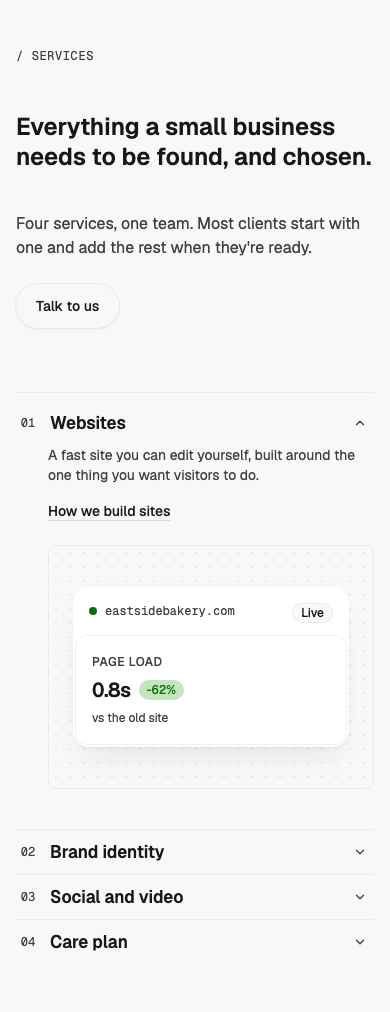
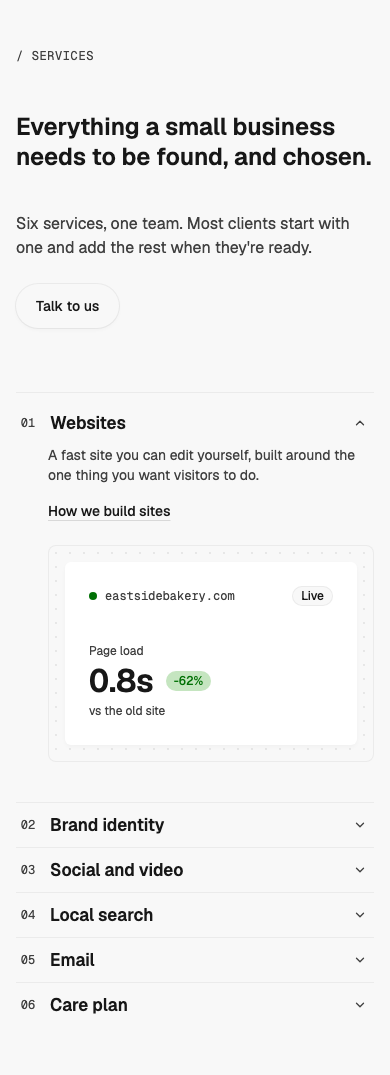
Services — Split Index polish: 3:2 frame + 6 example services (frame and list end within 4px), full-frame pictures on one plain surface (no nested cards; Stat's box replaced), 150ms ease-out crossfade (none under reduced motion); notes WMDS ChartRankedBars max bug and Stat surface gap

diff --git a/patterns/services/split-index/example.tsx b/patterns/services/split-index/example.tsx
@@ -1,9 +1,11 @@
 /**
- * Example content for Services — Split Index. Each service's picture is a small WMDS composition of what the
- * service delivers (a live site's speed, a type specimen, a reach chart, a care checklist), so the example is
- * licence-free and needs no photography; a client page swaps in its own work.
+ * Example content for Services — Split Index. Each service's picture is a WMDS composition of what the service
+ * delivers, set full-frame on one plain surface (no cards inside the frame): a live site, a type and colour
+ * specimen, a reach chart, review stars, an inbox report, a care checklist. Licence-free and needs no
+ * photography; a client page swaps in its own work.
  */
-import { Badge, Button, Card, ChartRankedBars, Stat, Status, TextLink } from "@thewhatmatters/wmds";
+import type { ReactNode } from "react";
+import { Badge, Button, ChartRankedBars, Status, TextLink } from "@thewhatmatters/wmds";
 import { ServicesSplitIndex, type ServicesSplitIndexService } from "./ServicesSplitIndex";
 
 export const meta = {
@@ -12,52 +14,88 @@ export const meta = {
   purpose: "Ruled services list beside a framed picture that follows the open service.",
 };
 
-const cardClasses = "w-full max-w-sm";
+/** One plain surface that fills the frame: no border, so it never reads as a card inside the frame's card. */
+function Surface({ children, className = "" }: { children: ReactNode; className?: string }) {
+  return <div className={`flex size-full flex-col rounded-md bg-surface p-6 shadow-sm lg:p-8 ${className}`}>{children}</div>;
+}
+
+/** A faint text line, for page copy in the site picture. */
+function Line({ w }: { w: string }) {
+  return <span aria-hidden className={`block h-2 rounded-full bg-[color-mix(in_srgb,var(--color-text-primary)_10%,transparent)] ${w}`} />;
+}
+
+const label = "font-mono text-xs uppercase tracking-wider text-muted";
+
+/** A big figure set straight on the surface (WMDS Stat draws its own bordered box, which would nest). */
+function Figure({ name, value, change, note }: { name: string; value: string; change?: string; note?: string }) {
+  return (
+    <div className="flex flex-col gap-1">
+      <span className="text-muted type-supporting">{name}</span>
+      <span className="flex items-center gap-3">
+        <span className="type-display-2 leading-none tabular-nums text-fg">{value}</span>
+        {change ? (
+          <Badge size="sm" variant="success" emphasis="muted">
+            {change}
+          </Badge>
+        ) : null}
+      </span>
+      {note ? <span className="text-muted type-supporting">{note}</span> : null}
+    </div>
+  );
+}
 
 function SiteVisual() {
   return (
-    <Card padding="none" className={cardClasses}>
-      <Card.Header
-        start={
-          <span className="flex items-center gap-2 font-mono text-xs text-muted">
-            <Status variant="dot" tone="success" besideLabel />
-            eastsidebakery.com
-          </span>
-        }
-        end={<Badge size="sm" emphasis="muted">Live</Badge>}
-      />
-      <Card.Body>
-        <Stat label="Page load" value="0.8s" trend={{ value: "-62%", direction: "up" }} context="vs the old site" />
-      </Card.Body>
-    </Card>
+    <Surface>
+      <div className="flex items-center justify-between gap-4">
+        <span className="flex items-center gap-2 font-mono text-xs text-muted">
+          <Status variant="dot" tone="success" besideLabel />
+          eastsidebakery.com
+        </span>
+        <Badge size="sm" emphasis="muted">
+          Live
+        </Badge>
+      </div>
+      <div className="mt-auto flex items-end justify-between gap-6">
+        <Figure name="Page load" value="0.8s" change="-62%" note="vs the old site" />
+        <div className="hidden w-2/5 flex-col gap-2.5 pb-2 sm:flex" aria-hidden>
+          <Line w="w-full" />
+          <Line w="w-4/5" />
+          <Line w="w-3/5" />
+        </div>
+      </div>
+    </Surface>
   );
 }
 
 function BrandVisual() {
   const swatches = ["--color-chart-categorical-1", "--color-chart-categorical-2", "--color-chart-categorical-3", "--color-chart-categorical-4"];
   return (
-    <Card padding="md" className={cardClasses}>
-      <div className="flex items-end justify-between gap-4">
+    <Surface>
+      <div className="flex items-start justify-between gap-4">
         <span className="type-display-1 leading-none text-fg" aria-hidden="true">
           Aa
         </span>
-        <span className="pb-2 text-right font-mono text-xs uppercase tracking-wider text-muted">Display / Text / Mono</span>
+        <span className={`${label} text-right`}>Display · Text · Mono</span>
       </div>
-      <div className="mt-6 grid grid-cols-4 gap-2" aria-hidden="true">
+      <div className="mt-auto grid grid-cols-4 gap-2" aria-hidden="true">
         {swatches.map((token) => (
-          <span key={token} className="aspect-square rounded-md" style={{ background: `var(${token})` }} />
+          <span key={token} className="aspect-[4/3] rounded-sm" style={{ background: `var(${token})` }} />
         ))}
       </div>
-    </Card>
+    </Surface>
   );
 }
 
 function SocialVisual() {
   return (
-    <Card padding="md" className={cardClasses}>
-      <p className="pb-4 font-mono text-xs uppercase tracking-wider text-muted">Reach this month</p>
+    <Surface className="justify-between">
+      <p className={label}>Reach this month</p>
       <ChartRankedBars
         aria-label="Reach by platform this month"
+        animate="none"
+        // Pass max: WMDS 0.4.28 draws every bar at 100% without it (a WMDS bug, reported).
+        max={20000}
         items={[
           { label: "Instagram", value: 18400, valueLabel: "18.4k" },
           { label: "TikTok", value: 12100, valueLabel: "12.1k" },
@@ -65,7 +103,33 @@ function SocialVisual() {
           { label: "Facebook", value: 2900, valueLabel: "2.9k" },
         ]}
       />
-    </Card>
+    </Surface>
+  );
+}
+
+function SearchVisual() {
+  return (
+    <Surface className="justify-between">
+      <p className={label}>Google Business profile</p>
+      <div className="flex items-end justify-between gap-6">
+        <Figure name="Rating" value="4.9" note="from 212 reviews" />
+        <span className="pb-2 text-2xl tracking-[0.2em] text-[var(--color-chart-categorical-4)]" aria-hidden>
+          ★★★★★
+        </span>
+      </div>
+    </Surface>
+  );
+}
+
+function EmailVisual() {
+  return (
+    <Surface className="justify-between">
+      <p className={label}>Thursday newsletter</p>
+      <div className="grid grid-cols-2 gap-6">
+        <Figure name="Opened" value="58%" change="+9 pts" />
+        <Figure name="Booked a table" value="41" note="this month" />
+      </div>
+    </Surface>
   );
 }
 
@@ -74,21 +138,22 @@ function CareVisual() {
     { label: "Uptime, 90 days", value: "99.98%" },
     { label: "Backups", value: "Daily" },
     { label: "Updates", value: "Tuesday" },
+    { label: "Small changes", value: "2 left" },
   ];
   return (
-    <Card padding="md" className={cardClasses}>
+    <Surface className="justify-center">
       <ul className="flex flex-col divide-y divide-border">
         {rows.map((row) => (
-          <li key={row.label} className="flex items-center justify-between gap-4 py-3 first:pt-0 last:pb-0">
-            <span className="flex items-center gap-2 text-fg">
+          <li key={row.label} className="flex items-center justify-between gap-4 py-3 type-large text-fg">
+            <span className="flex items-center gap-3">
               <Status variant="dot" tone="success" besideLabel />
               {row.label}
             </span>
-            <span className="font-mono text-sm tabular-nums text-muted">{row.value}</span>
+            <span className="font-mono tabular-nums text-muted">{row.value}</span>
           </li>
         ))}
       </ul>
-    </Card>
+    </Surface>
   );
 }
 
@@ -115,6 +180,18 @@ const services: ServicesSplitIndexService[] = [
     visual: <SocialVisual />,
   },
   {
+    title: "Local search",
+    meta: "From 2 weeks",
+    description: "Your Google profile, photos and reviews set up and kept fresh, so nearby customers find you first.",
+    visual: <SearchVisual />,
+  },
+  {
+    title: "Email",
+    meta: "Monthly",
+    description: "One short newsletter a week or a month, written with you and sent to the people who already like you.",
+    visual: <EmailVisual />,
+  },
+  {
     title: "Care plan",
     meta: "Monthly",
     description: "Hosting, backups, updates and small changes, so the site stays fast and nobody has to think about it.",
@@ -126,7 +203,7 @@ export default function Example() {
   return (
     <ServicesSplitIndex
       heading="Everything a small business needs to be found, and chosen."
-      intro="Four services, one team. Most clients start with one and add the rest when they're ready."
+      intro="Six services, one team. Most clients start with one and add the rest when they're ready."
       actions={
         <Button role="secondary" render={<a href="#contact" />}>
           Talk to us

diff --git a/patterns/services/split-index/ServicesSplitIndex.tsx b/patterns/services/split-index/ServicesSplitIndex.tsx
@@ -4,7 +4,8 @@
  * picture in a dot-grid frame on the left that stays in view while the list scrolls. On phones the frame drops
  * away and each service's picture sits inside its own open row.
  *
- * Nothing animates beyond WMDS Accordion's own open and close. One service is open at a time.
+ * Motion: WMDS Accordion's own open and close, plus a 150ms ease-out crossfade when the framed picture changes
+ * (none under prefers-reduced-motion). One service is open at a time.
  */
 import { useId, useState, type ReactNode } from "react";
 import { Accordion, SectionCaption, backgroundPatternDotGridClasses, cn } from "@thewhatmatters/wmds";
@@ -14,7 +15,7 @@ export interface ServicesSplitIndexService {
   title: ReactNode;
   /** What you get, in one or two sentences. */
   description: ReactNode;
-  /** Slot: the service's picture: real work, a WMDS composition of its output, a photo or a loop. */
+  /** Slot: the service's picture, filling the frame: real work, a photo, or a WMDS composition of its output. */
   visual: ReactNode;
   /** Slot, optional: short meta at the row's end, e.g. "From 6 weeks". */
   meta?: ReactNode;
@@ -31,7 +32,7 @@ export interface ServicesSplitIndexProps {
   intro?: ReactNode;
   /** Slot, optional: one CTA under the intro (a WMDS `<Button>`). */
   actions?: ReactNode;
-  /** The services, 3–6 of them. */
+  /** The services, 3–6 of them; 5–6 balance the frame (fewer leave the list shorter than the frame). */
   services: ServicesSplitIndexService[];
   /** The service open at first. Default 0. */
   defaultIndex?: number;
@@ -46,18 +47,21 @@ const introClasses = "col-span-full mt-4 flex flex-col items-start gap-6 md:col-
 /** Two ruled cells on the page grid (subgrid): the frame's half and the list's half share the top rule and a centre rule. */
 const cellsClasses = "col-span-full mt-10 grid border-t border-border md:mt-16 md:grid-cols-subgrid";
 const frameCellClasses = "hidden border-r border-border md:col-span-4 md:block md:pr-8 md:pt-8 lg:col-span-6";
-/** The frame stays in view while the list scrolls past it. */
-const frameClasses = cn(
-  "sticky top-8 flex aspect-[4/3] items-center justify-center overflow-hidden rounded-lg border border-border p-8",
-  backgroundPatternDotGridClasses,
-);
+/**
+ * The frame stays in view while the list scrolls past it. 3:2, so with 5–6 services the list and the frame
+ * end at about the same height. Every service's picture is stacked inside; the shown one fades in.
+ */
+const frameClasses = cn("sticky top-8 grid aspect-[3/2] overflow-hidden rounded-lg border border-border", backgroundPatternDotGridClasses);
+/** One picture layer: fills the frame with a small inset; 150ms ease-out crossfade, none under reduced motion. */
+const layerClasses =
+  "col-start-1 row-start-1 flex size-full items-stretch justify-stretch p-4 transition-opacity duration-150 ease-out motion-reduce:transition-none lg:p-6";
 const listCellClasses = "pt-2 md:col-span-4 md:pt-6 lg:col-span-6";
 const numberClasses = "font-mono text-xs tabular-nums text-muted";
 const titleClasses = "type-heading-3 text-fg";
 const metaClasses = "hidden font-mono text-xs uppercase tracking-wider text-muted sm:inline";
 const panelClasses = "flex flex-col items-start gap-4 pb-6 pl-8";
 const mobileFrameClasses = cn(
-  "mt-2 flex aspect-[4/3] w-full items-center justify-center overflow-hidden rounded-lg border border-border p-6 md:hidden",
+  "mt-2 flex aspect-[3/2] w-full items-stretch overflow-hidden rounded-lg border border-border p-4 md:hidden",
   backgroundPatternDotGridClasses,
 );
 
@@ -102,7 +106,16 @@ export function ServicesSplitIndex({
         <div className={cellsClasses}>
           <div className={frameCellClasses}>
             <div className={frameClasses} data-slot="visual">
-              {services[shown]?.visual}
+              {services.map((service, index) => (
+                <div
+                  key={index}
+                  className={cn(layerClasses, index === shown ? "opacity-100" : "pointer-events-none opacity-0")}
+                  aria-hidden={index === shown ? undefined : true}
+                  inert={index === shown ? undefined : true}
+                >
+                  {service.visual}
+                </div>
+              ))}
             </div>
           </div>
 

diff --git a/patterns/services/split-index/README.md b/patterns/services/split-index/README.md
@@ -41,9 +41,10 @@ import { ServicesSplitIndex } from "./ServicesSplitIndex";
 ## Behaviour
 
 - **Rows** are WMDS `Accordion` (plain, flush): buttons with `aria-expanded`, keyboard and focus from WMDS. Opening a row closes the others; closing the open row leaves the frame on its picture.
-- **The frame** is `position: sticky` (top 32px), 4:3, on the WMDS dot-grid background. It shows only the open service's `visual`, so a picture that carries meaning needs its own `alt` or `aria-label`.
+- **The frame** is `position: sticky` (top 32px), 3:2, on the WMDS dot-grid background. With 5–6 services the list and the frame end at about the same height (in the example, within 4px at 1440); with 3–4 the list is shorter and the frame sits still. Every service's `visual` is stacked inside; only the shown one is visible, and the hidden ones are `inert` and `aria-hidden`, so a picture that carries meaning needs its own `alt` or `aria-label`.
+- **Pictures fill the frame** (a 16–24px inset). Set each on one plain surface; don't put bordered cards inside the frame, or it reads as a widget in a widget.
 - **Phones (< 768px):** the frame is hidden and the open row shows its picture under the description.
-- **Motion:** only the Accordion's own open and close. To cross-fade the picture, wrap the frame's child in `AnimatePresence` in your page.
+- **Motion:** the Accordion's own open and close, plus a **150ms ease-out crossfade** when the shown picture changes (CSS opacity, so the outgoing and incoming pictures overlap). Under `prefers-reduced-motion` the picture swaps with no fade. This is the one place the pattern animates beyond WMDS, by Randy's call (2026-10-28).
 
 ## Knobs
 
@@ -57,7 +58,7 @@ The first item is the example the gallery's Copy prompt uses.
 - **Real work as pictures:** pass an `<img>` or `<video>` per service (fill the frame: `className="size-full object-cover"` and drop the frame's padding in your copy).
 - **No CTA:** leave `actions` empty.
 - **Picture on the right:** swap the two cells' order and move the centre rule (`border-r` → `border-l` on the frame cell, `md:pl-8` → `md:pr-8` on the list).
-- **More services:** up to six; past that, use a plain list or split into two sections.
+- **More services:** five or six balance the frame best; past six, use a plain list or split into two sections.
 
 ## Spacing
 
@@ -65,7 +66,10 @@ Full width; section padding 48 / 64 top and bottom (phone / tablet and up); capt
 
 ## WMDS
 
-Built on **@thewhatmatters/wmds 0.4.28** (npm): `SectionCaption`, `Accordion`, `backgroundPatternDotGridClasses`; the example adds `Card`, `Stat`, `Status`, `Badge`, `ChartRankedBars`, `TextLink`, `Button`.
+Built on **@thewhatmatters/wmds 0.4.28** (npm): `SectionCaption`, `Accordion`, `backgroundPatternDotGridClasses`; the example adds `Status`, `Badge`, `ChartRankedBars`, `TextLink`, `Button`.
+
+- **WMDS bug: `ChartRankedBars` without `max` draws every bar at 100%.** The example passes `max`; fix in WMDS.
+- **WMDS-GAP: no plain big figure.** `Stat` always draws its own bordered box, which nests inside the frame; the example sets figures with `type-display-2` and a `Badge`. Proposed: `Stat` `surface="none"`.
 
 - **WMDS-GAP: no selected-row emphasis.** Heron marks the open service with an inverted ink band across the row; WMDS `Accordion` has no selected or inverse state for an item, and a pattern can't restyle it (its `className` is layout-only). Left out rather than patched. Proposed: `Accordion.Item` `emphasis="inverse"` when open (the `data-tone="inverse"` remap Band already uses).
 - **WMDS-GAP: no large index size for Accordion.** Rows are fixed at `h-11`; the pattern sets the title in `type-heading-3` inside the label slot, which fits but leaves no room for a bigger index (IndexList has `size="lg"`, but no single-open preview with a linked picture). Proposed: `Accordion` `size="lg"` for editorial lists.
